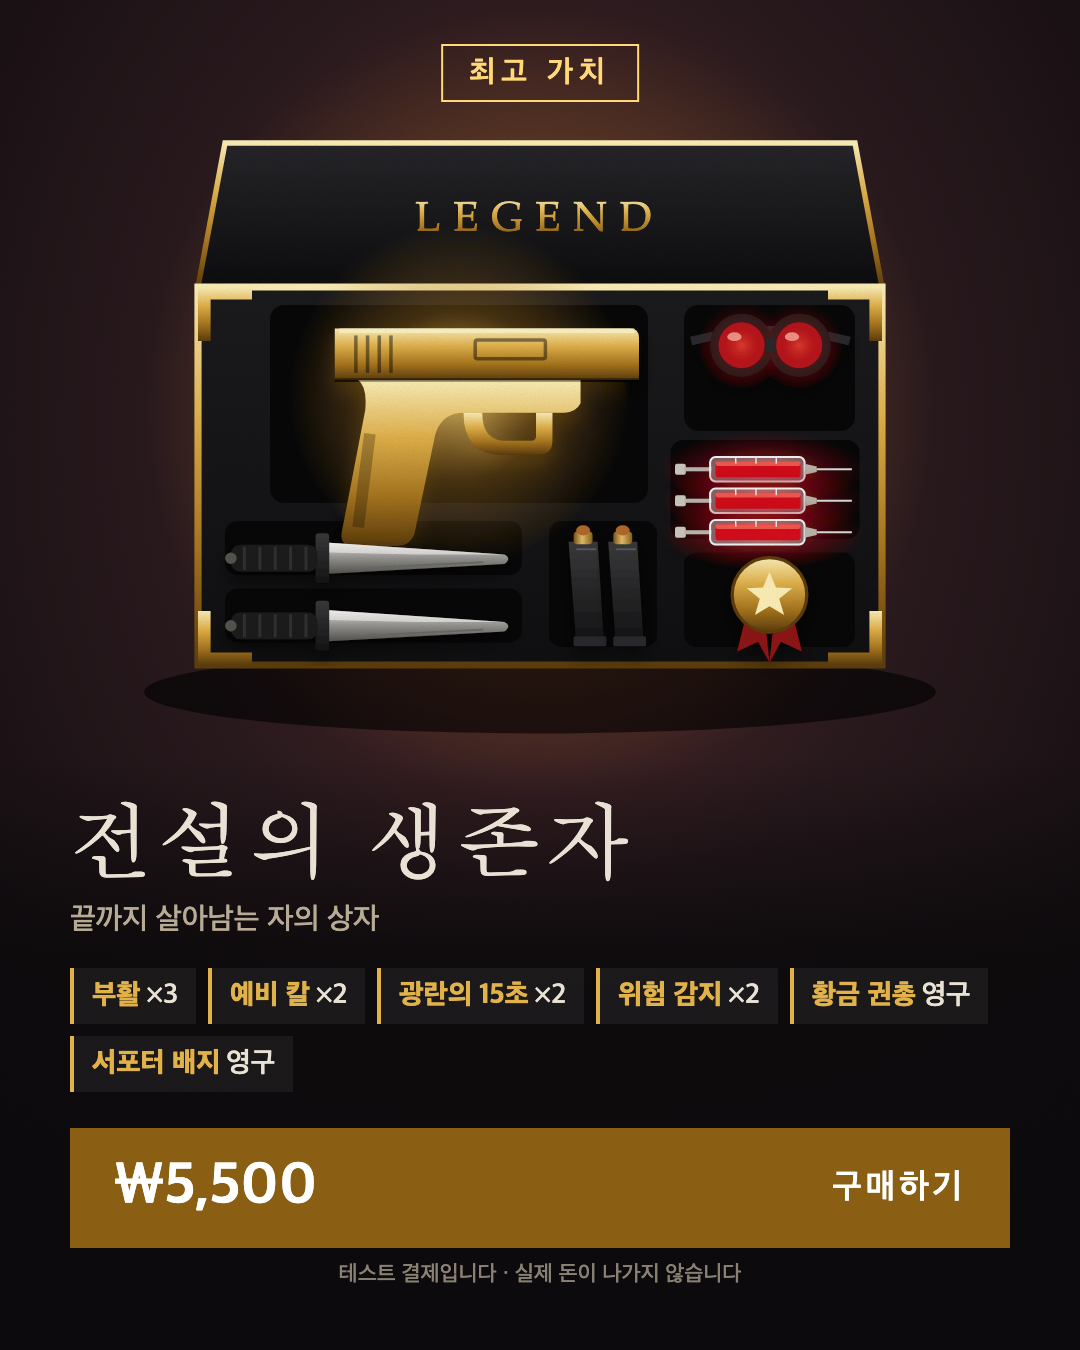
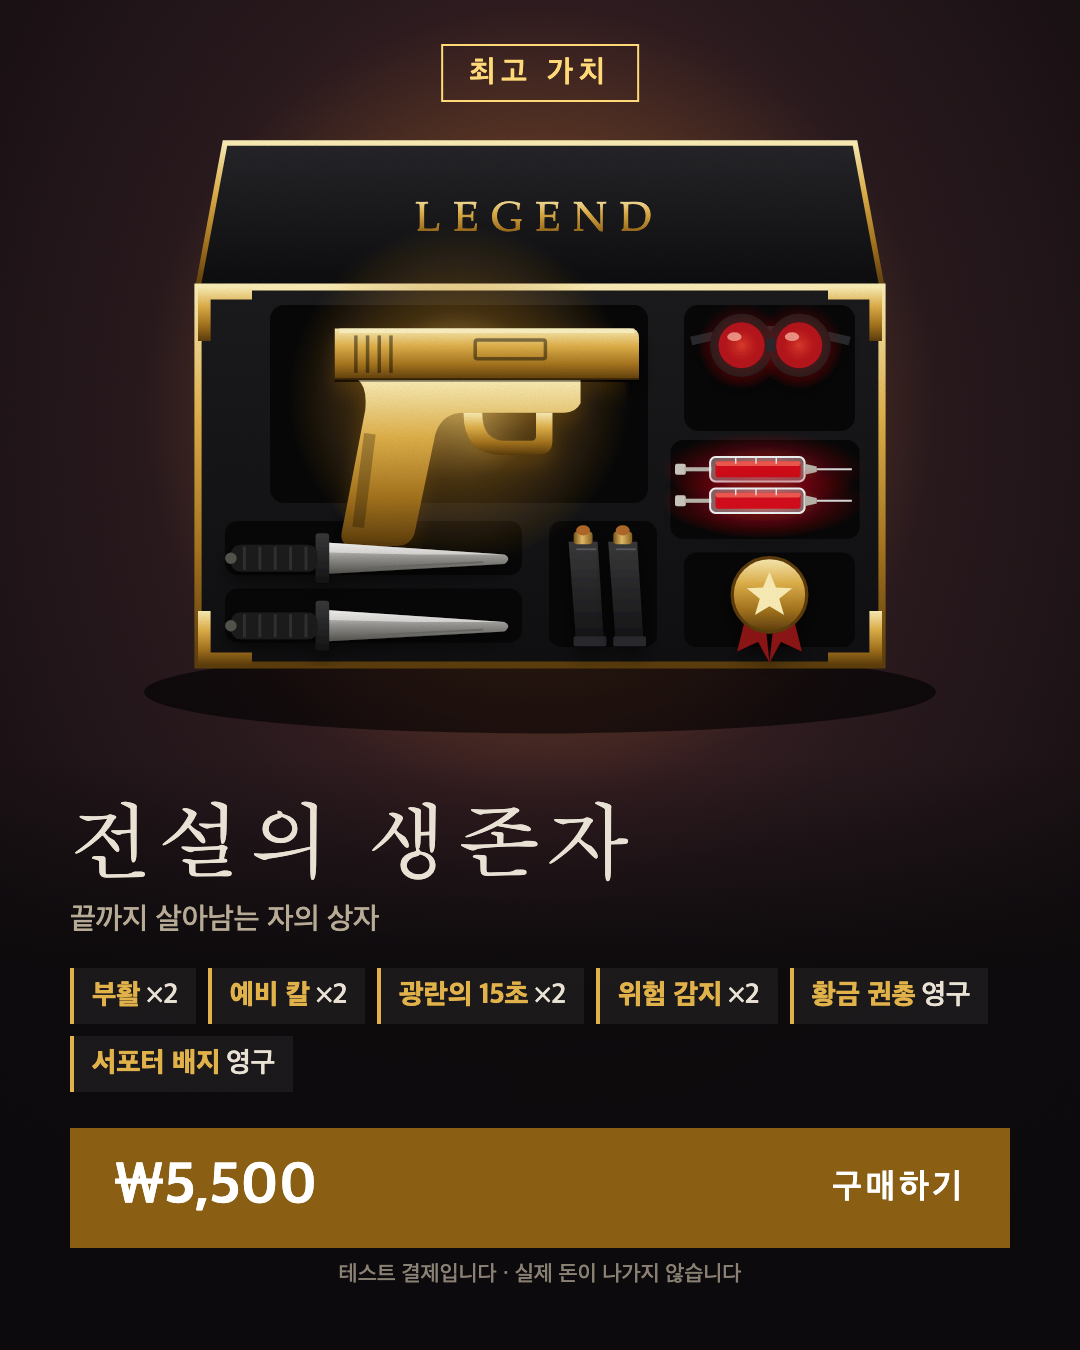
tune(packs): 생존 키트 1,500원 + 아드레날린 1, 한 번 더 부활 2→1, 전설의 생존자 부활 3→2, 팩 카드 그림(호박색 아드레날린 주사기·부활 주사기 개수) 다시 만듦

Changed region(s): [[0.6111, 0.3733, 0.7944, 0.4356]]

diff --git a/art/shop/make_packs.py b/art/shop/make_packs.py
@@ -93,6 +93,18 @@ DEFS = r"""
     <path d="M192 22 L210 26 L210 34 L192 38 Z" fill="#bdb8ae"/>
     <line x1="210" y1="30" x2="262" y2="30" stroke="#dcdcdc" stroke-width="3"/>
   </g>
+  <!-- 아드레날린 주사기 (호박색 — 붉은 부활 주사기와 구분) -->
+  <g id="syringe-adren">
+    <ellipse cx="130" cy="30" rx="150" ry="55" fill="url(#fireglow)" opacity=".8"/>
+    <rect x="0" y="22" width="16" height="16" rx="3" fill="#cfcac0"/>
+    <rect x="14" y="27" width="40" height="6" fill="#bdb8ae"/>
+    <rect x="52" y="12" width="140" height="36" rx="8" fill="#e8eef0" fill-opacity=".35" stroke="#f2f6f7" stroke-width="3"/>
+    <rect x="60" y="18" width="126" height="24" rx="5" fill="#f2b01e"/>
+    <rect x="60" y="18" width="126" height="7" rx="3" fill="#ffe08a" opacity=".7"/>
+    <g stroke="#f2f6f7" stroke-width="2"><line x1="90" y1="12" x2="90" y2="22"/><line x1="120" y1="12" x2="120" y2="22"/><line x1="150" y1="12" x2="150" y2="22"/></g>
+    <path d="M192 22 L210 26 L210 34 L192 38 Z" fill="#bdb8ae"/>
+    <line x1="210" y1="30" x2="262" y2="30" stroke="#dcdcdc" stroke-width="3"/>
+  </g>
 
   <!-- 모닥불 폭 170 -->
   <g id="bonfire">
@@ -173,6 +185,7 @@ AMMO_TIN = """
   <g transform="translate(-250,-60) rotate(-8)" filter="url(#shadow)"><use href="#knife" transform="scale(1.6)"/></g>
   <g transform="translate(90,-150) rotate(12)" filter="url(#shadow)"><use href="#flare" transform="scale(1.05)"/></g>
   <g transform="translate(-120,-30)" filter="url(#shadow)"><use href="#ammobox" transform="scale(1.3)"/></g>
+  <g transform="translate(-255,-125) rotate(-3)" filter="url(#shadow)"><use href="#syringe-adren" transform="scale(.8)"/></g>
   <!-- 앞면 -->
   <path d="M-320 20 L320 20 L300 220 L-300 220 Z" fill="url(#olive)"/>
   <path d="M-320 20 L320 20" stroke="#8a915e" stroke-width="8"/>
@@ -192,8 +205,7 @@ SUPPLY_CRATE = """
   <path d="M-330 -130 L330 -130 L330 40 L-330 40 Z" fill="#1d120a"/>
   <!-- 소품 -->
   <g transform="translate(-40,-150)"><use href="#bonfire" transform="scale(1.05)"/></g>
-  <g transform="translate(-330,-120) rotate(-10)" filter="url(#shadow)"><use href="#syringe" transform="scale(1.25)"/></g>
-  <g transform="translate(-300,-60) rotate(3)" filter="url(#shadow)"><use href="#syringe" transform="scale(1.25)"/></g>
+  <g transform="translate(-310,-90) rotate(-4)" filter="url(#shadow)"><use href="#syringe" transform="scale(1.25)"/></g>
   <g transform="translate(150,-150) rotate(14)" filter="url(#shadow)"><use href="#mag-hot" transform="scale(1.1)"/></g>
   <!-- 앞면 (판자) -->
   <path d="M-350 20 L350 20 L330 230 L-330 230 Z" fill="url(#wood)"/>
@@ -227,18 +239,17 @@ LEGEND_CASE = """
   <g transform="translate(22,92)" filter="url(#shadow)"><use href="#mag" transform="scale(.7)"/></g><g transform="translate(66,92)" filter="url(#shadow)"><use href="#mag" transform="scale(.7)"/></g>
   <g transform="translate(150,10)" filter="url(#shadow)"><use href="#syringe" transform="scale(.75)"/></g>
   <g transform="translate(150,45)" filter="url(#shadow)"><use href="#syringe" transform="scale(.75)"/></g>
-  <g transform="translate(150,80)" filter="url(#shadow)"><use href="#syringe" transform="scale(.75)"/></g>
   <g transform="translate(255,172)" filter="url(#shadow)"><use href="#badge" transform="scale(.9)"/></g>
   <!-- 금 모서리 -->
   <g fill="url(#gold)"><path d="M-380 -170 h60 v14 h-46 v46 h-14 z"/><path d="M380 -170 h-60 v14 h46 v46 h14 z"/><path d="M-380 250 h60 v-14 h-46 v-46 h-14 z"/><path d="M380 250 h-60 v-14 h46 v-46 h14 z"/></g>
 </g>"""
 
 CARDS = [
-    ("pack_survival_kit", "생존 키트", "처음 몇 번 쓰러진 당신에게", [("예비 칼", "×1"), ("시작 탄약 팩", "×1"), ("보급 신호탄", "×1")],
-     "₩1,100", "#b9ad7a", "#5d6340", "", "", AMMO_TIN),
-    ("pack_one_more", "한 번 더", "끝을 보기 위한 두 번의 기회", [("부활", "×2"), ("광란의 15초", "×1"), ("모닥불", "×1")],
+    ("pack_survival_kit", "생존 키트", "처음 몇 번 쓰러진 당신에게", [("예비 칼", "×1"), ("시작 탄약 팩", "×1"), ("보급 신호탄", "×1"), ("아드레날린", "×1")],
+     "₩1,500", "#b9ad7a", "#5d6340", "", "", AMMO_TIN),
+    ("pack_one_more", "한 번 더", "끝을 보기 위한 한 번의 기회", [("부활", "×1"), ("광란의 15초", "×1"), ("모닥불", "×1")],
      "₩3,300", "#e0473a", "#a3121a", "가장 인기", "#ff6a55", SUPPLY_CRATE),
-    ("pack_legend", "전설의 생존자", "끝까지 살아남는 자의 상자", [("부활", "×3"), ("예비 칼", "×2"), ("광란의 15초", "×2"), ("위험 감지", "×2"), ("황금 권총", "영구"), ("서포터 배지", "영구")],
+    ("pack_legend", "전설의 생존자", "끝까지 살아남는 자의 상자", [("부활", "×2"), ("예비 칼", "×2"), ("광란의 15초", "×2"), ("위험 감지", "×2"), ("황금 권총", "영구"), ("서포터 배지", "영구")],
      "₩5,500", "#e2b24a", "#8a5f14", "최고 가치", "#ffd978", LEGEND_CASE),
 ]
 

diff --git a/docs/PACK_ITEMS_HANDOFF.md b/docs/PACK_ITEMS_HANDOFF.md
@@ -21,18 +21,18 @@
 | 8 | 백엔드(C): 서버 상품 3종 + 구성 수량 지급, 토스 Android SDK 연결 | C 에게 전달 필요 |
 
 검증 (2026-10-01): 검사 5종 모두 750m 완주·끼임 탈출 0 (팩 UI 는 플레이 모드에서만 떠서 검사에 영향 없음).
-창 모드 흐름 확인: 출발 준비 → 테스트 지급(전설+생존 키트) → 예비 칼·탄약 팩·위험 감지 켜고 출발(칼 2·예비탄 7) → 1 광란(쏴도 탄창 7 그대로) · 2 신호탄(앞 32m 보급) · 같은 판 광란 두 번째는 안 됨 → 위험 감지 붉은 가장자리 → 잡혀 죽음 → "한 번 더 (부활 ×3)" → 부활(2초 무적, 부활 3→2) → 다시 죽음 → "이번 판은 이미 다시 일어났습니다 · 생존 키트 ₩1,100" → 누르면 테스트 지급.
+창 모드 흐름 확인: 출발 준비 → 테스트 지급(전설+생존 키트) → 예비 칼·탄약 팩·위험 감지 켜고 출발(칼 2·예비탄 7) → 1 광란(쏴도 탄창 7 그대로) · 2 신호탄(앞 32m 보급) · 같은 판 광란 두 번째는 안 됨 → 위험 감지 붉은 가장자리 → 잡혀 죽음 → "한 번 더 (부활 ×2)" → 부활(2초 무적, 부활 2→1) → 다시 죽음 → "이번 판은 이미 다시 일어났습니다 · 생존 키트 ₩1,500" → 누르면 테스트 지급.
 
 ---
 
 ## 1. 확정 기획 (노션 원본 + 사용자 수정)
 
-### 1.1 팩 3종 — 가격 사다리 1,100 → 3,300 → 5,500원, 주력은 가운데
+### 1.1 팩 3종 — 가격 사다리 1,500 → 3,300 → 5,500원, 주력은 가운데
 | 상품 ID | 이름 | 가격 | 구성 | 대상 |
 |---|---|---|---|---|
-| `pack_survival_kit` | 생존 키트 | 1,100원 | 예비 칼 1 · 시작 탄약 팩 1 · 보급 신호탄 1 | 처음 몇 번 죽어 본 사람 |
-| `pack_one_more` | 한 번 더 패키지 | 3,300원 | 부활 2 · 광란의 15초 1 · 모닥불 1 | 끝 반전에서 막힌 사람 (**주력**) |
-| `pack_legend` | 전설의 생존자 | 5,500원 | 부활 3 · 예비 칼 2 · 광란의 15초 2 · 위험 감지 2 · 황금 권총(영구) · 서포터 배지(영구) | 꼭 깨고 싶은 사람 |
+| `pack_survival_kit` | 생존 키트 | 1,500원 | 예비 칼 1 · 시작 탄약 팩 1 · 보급 신호탄 1 · 아드레날린 1 | 처음 몇 번 죽어 본 사람 |
+| `pack_one_more` | 한 번 더 패키지 | 3,300원 | 부활 1 · 광란의 15초 1 · 모닥불 1 | 끝 반전에서 막힌 사람 (**주력**) |
+| `pack_legend` | 전설의 생존자 | 5,500원 | 부활 2 · 예비 칼 2 · 광란의 15초 2 · 위험 감지 2 · 황금 권총(영구) · 서포터 배지(영구) | 꼭 깨고 싶은 사람 |
 
 상점·제안 화면에는 항상 **"테스트 결제입니다. 실제 돈이 나가지 않습니다"** (PRD F-115).
 카드 그림: `art/shop/pack_*.png` (main 에 머지됨, PR #14), 다시 만들기 `python3 art/shop/make_packs.py`.
@@ -47,7 +47,7 @@
 | `flare_supply` | 보급 신호탄 | 버튼 → 앞 30m 에 보급 상자 | 1회 소모 |
 | `bonfire` | 모닥불 | 다음 판을 절반(375m)부터 시작 | 1회 소모 |
 | `danger_sense` | 위험 감지 | 매복·광전사 1초 전 화면 가장자리가 붉게 번쩍 | 1회 소모 |
-| `adrenaline` | 아드레날린 | **[3] 키**, 8초 동안 앞으로 1.4배 · 좌우 1.8배 빠르게 (시야 살짝 넓어짐). **시험 중 — 아직 어느 팩에도 없음** (테스트 지급 칩 "+ 아드레날린") | 1회 소모 |
+| `adrenaline` | 아드레날린 | **[3] 키**, 8초 동안 앞으로 1.4배 · 좌우 1.8배 빠르게 (시야 살짝 넓어짐). 생존 키트에 1개 (2026-10-01) | 1회 소모 |
 | `gold_pistol` | 황금 권총 | 겉모습만 황금색, 위력 같음 | 영구 |
 | `supporter_badge` | 서포터 배지 | 사망·완주 화면에 배지 | 영구 |
 
@@ -63,7 +63,7 @@
 | 죽은 상황 | RETRY 옆에 뜨는 것 | 아래 한 줄 |
 |---|---|---|
 | 절반(375m) 넘게 달리고 죽음 | 한 번 더 ₩3,300 | "남은 32m, 한 번 더?" (남은 거리는 실제 값) |
-| 그 전에 죽음 | 생존 키트 ₩1,100 | "예비 칼이 있었다면…" |
+| 그 전에 죽음 | 생존 키트 ₩1,500 | "예비 칼이 있었다면…" |
 | 같은 구간에서 2번째 죽음부터 — 길 중간 광전사 | 전설의 생존자 ₩5,500 | "위험 감지면 2초 먼저 보인다" |
 | 같은 구간에서 2번째 죽음부터 — 끝 반전 | 전설의 생존자 ₩5,500 | "광란의 15초를 아껴 뒀다면" |
 
